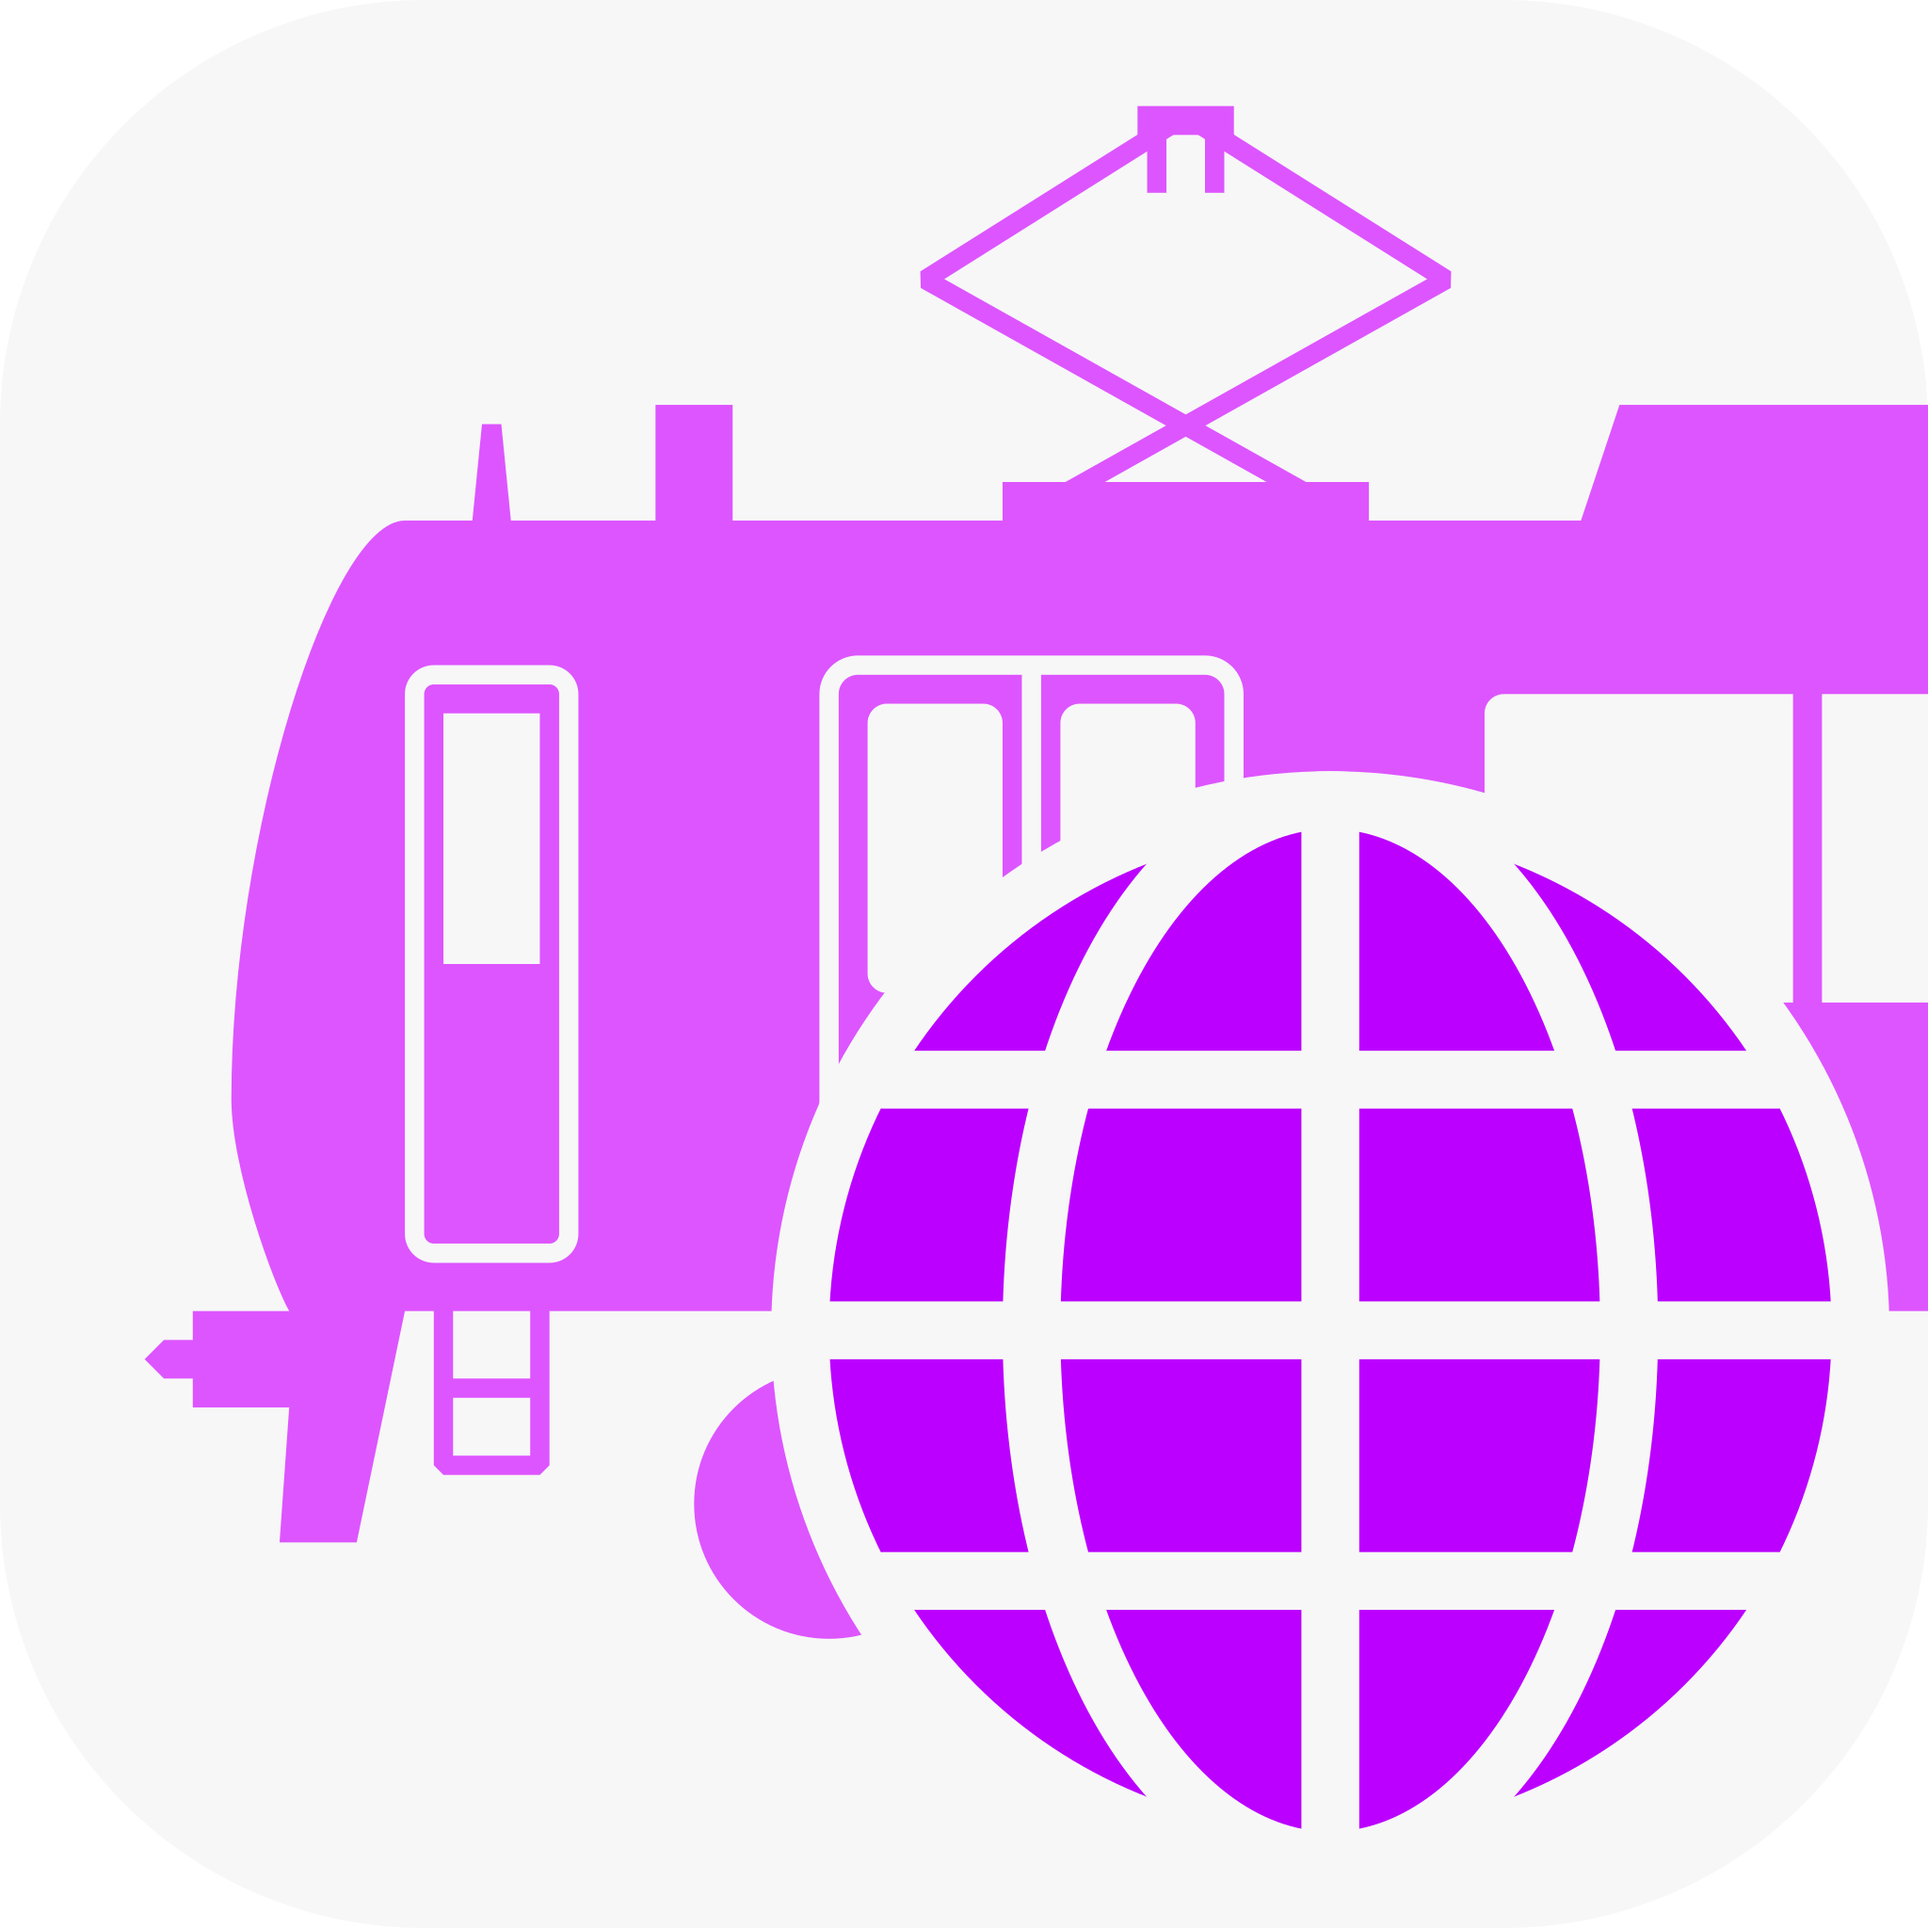
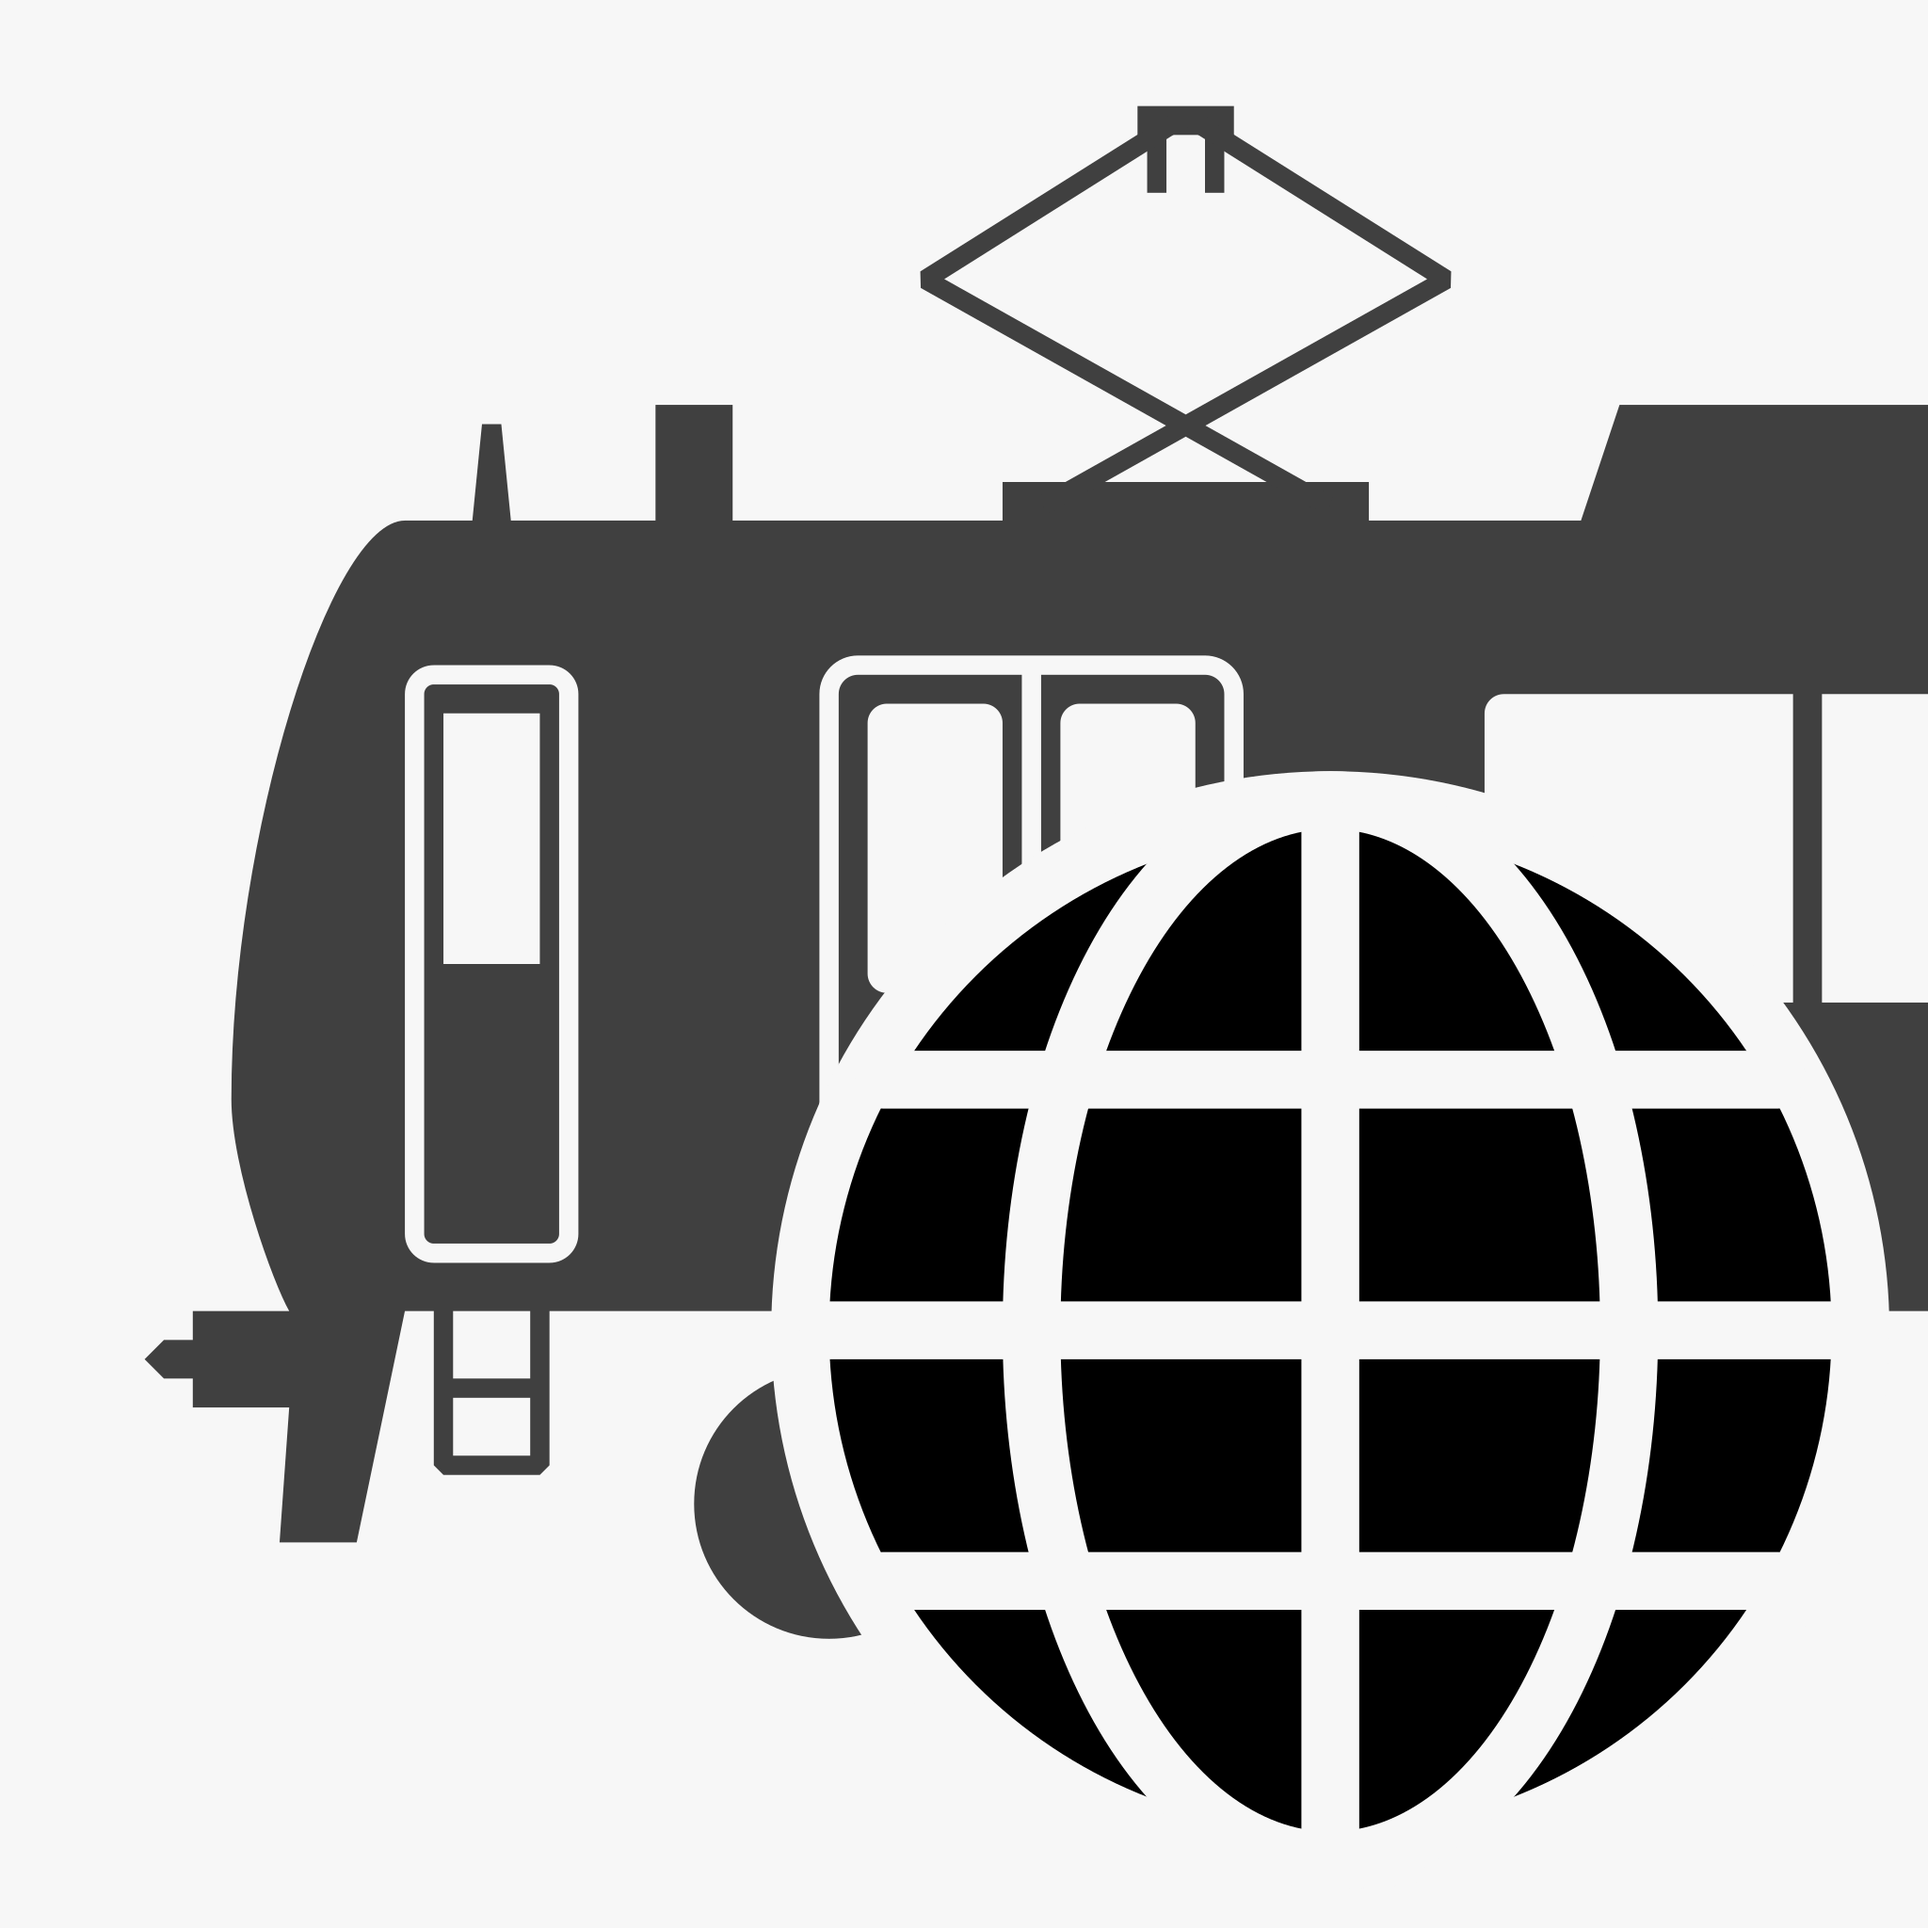
v23.10-β6 アイコンデザインの変更、走行位置表示機能で回送列車を半透明で表示するように
FossilOrigin-Name: aad79337b4903a04c8953f4b4c81e823acac2d7dec68f82cac0b079b4a86b6af

diff --git a/unyohub/index.html b/unyohub/index.html
@@ -5,7 +5,7 @@
     <meta name="viewport" content="width=device-width,initial-scale=1,interactive-widget=resizes-content">
 <script>
     const UNYOHUB_APP_NAME = "運用観察Hub";
-    const UNYOHUB_VERSION = "23.10-β5"
+    const UNYOHUB_VERSION = "23.10-β6"
     const UNYOHUB_INDEXEDDB_VERSION = 2310001;
     const UNYOHUB_LICENSE_TEXT = "このアプリケーションは無権利創作宣言に準拠して著作権放棄されています。";
     const UNYOHUB_LICENSE_URL = "https://www.2pd.jp/license/";
@@ -2426,6 +2426,8 @@ function switch_railroad (railroad_info_next, load_icon = true) {
     
     railroad_info = railroad_info_next;
     
+    railroad_info["deadhead_train_number_regexp"] = new RegExp(railroad_info["deadhead_train_number"]);
+    
     var select_elm = document.getElementById("railroad_select");
     if (select_elm.value !== railroad_info["railroad_id"]) {
         select_elm.value = railroad_info["railroad_id"];
@@ -3066,12 +3068,26 @@ function draw_train_position (hh_and_mm) {
     for (var cnt = 0; cnt < line_inbound.length; cnt++) {
         if (line_inbound[cnt].length === 1) {
             var train = convert_train_position_data(line_inbound[cnt][0]);
-            position_inbound_elms[line_inbound.length - cnt].innerHTML = "<span onclick='train_detail(\"" + line_id + "\", \"" + train["train_number"] + "\", \"" + train["first_departure_time"] + "\", \"inbound_trains\");' style='color : " + get_train_color(train["train_title"]) + ";'><img src='" + get_icon(train["first_formation"]) + "' alt='' class='train_icon'>" + train["train_title"] + "<br>" + train["formation_html"] + "</span>";
+            buf = "<span onclick='train_detail(\"" + line_id + "\", \"" + train["train_number"] + "\", \"" + train["first_departure_time"] + "\", \"inbound_trains\");' style='color : " + get_train_color(train["train_title"]) + ";'><img src='" + get_icon(train["first_formation"]) + "' alt='' class='train_icon'";
+            
+            if (railroad_info["deadhead_train_number_regexp"].test(train["train_number"])) {
+                buf += " style='opacity: 0.5;'"
+            }
+            
+            buf += ">" + train["train_title"] + "<br>" + train["formation_html"] + "</span>";
+            
+            position_inbound_elms[line_inbound.length - cnt].innerHTML = buf;
         } else if (line_inbound[cnt].length >= 2) {
             buf = "<span class='multiple_trains'>";
             for (var cnt_2 = 0; cnt_2 < line_inbound[cnt].length; cnt_2++) {
                 var train = convert_train_position_data(line_inbound[cnt][cnt_2]);
-                buf += "<img src='" + get_icon(train["first_formation"]) + "' alt='' class='train_icon' onclick='train_detail(\"" + line_id + "\", \"" + train["train_number"] + "\", \"" + train["first_departure_time"] + "\", \"inbound_trains\");'>";
+                buf += "<img src='" + get_icon(train["first_formation"]) + "' alt='' class='train_icon' onclick='train_detail(\"" + line_id + "\", \"" + train["train_number"] + "\", \"" + train["first_departure_time"] + "\", \"inbound_trains\");'";
+                
+                if (railroad_info["deadhead_train_number_regexp"].test(train["train_number"])) {
+                    buf += " style='opacity: 0.5;'"
+                }
+                
+                buf += ">";
             }
             buf += "</span>";
             
@@ -3084,12 +3100,26 @@ function draw_train_position (hh_and_mm) {
     for (cnt = 0; cnt < line_outbound.length; cnt++) {
         if (line_outbound[cnt].length === 1) {
             var train = convert_train_position_data(line_outbound[cnt][0]);
-            position_outbound_elms[cnt].innerHTML = "<span onclick='train_detail(\"" + line_id + "\", \"" + train["train_number"] + "\", \"" + train["first_departure_time"] + "\", \"outbound_trains\");' style='color : " + get_train_color(train["train_title"]) + ";'><img src='" + get_icon(train["first_formation"]) + "' alt='' class='train_icon'>" + train["train_title"] + "<br>" + train["formation_html"] + "</span>";
+            buf = "<span onclick='train_detail(\"" + line_id + "\", \"" + train["train_number"] + "\", \"" + train["first_departure_time"] + "\", \"outbound_trains\");' style='color : " + get_train_color(train["train_title"]) + ";'><img src='" + get_icon(train["first_formation"]) + "' alt='' class='train_icon'";
+            
+            if (railroad_info["deadhead_train_number_regexp"].test(train["train_number"])) {
+                buf += " style='opacity: 0.5;'"
+            }
+            
+            buf += ">" + train["train_title"] + "<br>" + train["formation_html"] + "</span>";
+            
+            position_outbound_elms[cnt].innerHTML = buf;
         } else if (line_outbound[cnt].length >= 2) {
             buf = "<span class='multiple_trains'>";
             for (var cnt_2 = 0; cnt_2 < line_outbound[cnt].length; cnt_2++) {
-            var train = convert_train_position_data(line_outbound[cnt][cnt_2]);
-                buf += "<img src='" + get_icon(train["first_formation"]) + "' alt='' class='train_icon' onclick='train_detail(\"" + line_id + "\", \"" + train["train_number"] + "\", \"" + train["first_departure_time"] + "\", \"outbound_trains\");'>";
+                var train = convert_train_position_data(line_outbound[cnt][cnt_2]);
+                buf += "<img src='" + get_icon(train["first_formation"]) + "' alt='' class='train_icon' onclick='train_detail(\"" + line_id + "\", \"" + train["train_number"] + "\", \"" + train["first_departure_time"] + "\", \"outbound_trains\");'";
+                
+                if (railroad_info["deadhead_train_number_regexp"].test(train["train_number"])) {
+                    buf += " style='opacity: 0.5;'"
+                }
+                
+                buf += ">";
             }
             buf += "</span>";
             
@@ -3215,38 +3245,38 @@ function convert_formation_data (line_id, operation_list, is_inbound) {
     if (operation_list !== null) {
         var formation_text = "";
         
-        for (var cnt_3 = 0; cnt_3 < operation_list.length; cnt_3++) {
-            if (operation_list[cnt_3] in operation_data["operations"]) {
+        for (var cnt = 0; cnt < operation_list.length; cnt++) {
+            if (operation_list[cnt] in operation_data["operations"]) {
                 if (railroad_info["lines"][line_id]["inbound_forward_direction"] === is_inbound) {
-                    if (cnt_3 === 0) {
-                        first_formation = operation_data["operations"][operation_list[cnt_3]]["formations"].split("+")[0];
+                    if (cnt === 0) {
+                        first_formation = operation_data["operations"][operation_list[cnt]]["formations"].split("+")[0];
                     } else {
                         formation_text += "+";
                     }
                     
-                    formation_text += operation_data["operations"][operation_list[cnt_3]]["formations"];
+                    formation_text += operation_data["operations"][operation_list[cnt]]["formations"];
                 } else {
-                    if (cnt_3 === 0) {
-                        var formation_data = operation_data["operations"][operation_list[cnt_3]]["formations"].split("+");
+                    if (cnt === 0) {
+                        var formation_data = operation_data["operations"][operation_list[cnt]]["formations"].split("+");
                         
                         first_formation = formation_data[formation_data.length - 1];
                     } else {
                         formation_text = "+" + formation_text;
                     }
                     
-                    formation_text = operation_data["operations"][operation_list[cnt_3]]["formations"] + formation_text;
+                    formation_text = operation_data["operations"][operation_list[cnt]]["formations"] + formation_text;
                 }
                 
-                variants_count = Math.max(operation_data["operations"][operation_list[cnt_3]]["variants_count"], Number(variants_count));
+                variants_count = Math.max(operation_data["operations"][operation_list[cnt]]["variants_count"], Number(variants_count));
             } else {
                 if (railroad_info["lines"][line_id]["inbound_forward_direction"] === is_inbound) {
-                    if (cnt_3 === 0) {
+                    if (cnt === 0) {
                         formation_text += "?";
                     } else {
                         formation_text += "+?";
                     }
                 } else {
-                    if (cnt_3 === 0) {
+                    if (cnt === 0) {
                         formation_text = "?" + formation_text;
                     } else {
                         formation_text = "?+" + formation_text;
@@ -3495,6 +3525,13 @@ function train_detail (line_id, train_number, first_departure_time, train_direct
                 }
             }
         }
+    } else {
+        buf += "<h4>" + escape_html(railroad_info["lines"][line_id]["line_name"]) + "　"
+        if (railroad_info["deadhead_train_number_regexp"].test(train_number)) {
+            buf += "回送　";
+        }
+        buf += escape_html(train_number) + "</h4>";
+        buf += "詳細情報はありません";
     }
     
     if (train_operations !== null && timetable_operation_table === get_days_operation(Date.now() / 1000)) {

diff --git a/unyohub/service_worker.js b/unyohub/service_worker.js
@@ -1,4 +1,4 @@
-var unyo_version = "23.10-β5"; /*運用観察Hub本体のバージョン番号*/
+var unyo_version = "23.10-β6"; /*運用観察Hub本体のバージョン番号*/
 
 var cache_name = "unyohub_" + unyo_version;
 var files_to_cache = [

diff --git a/setup_scripts/convert_operation_table.py b/setup_scripts/convert_operation_table.py
@@ -6,7 +6,7 @@ import json
 import sqlite3
 
 
-def get_lines_and_station(station_initial):
+def get_lines_and_station(station_initial, cnt, cnt_2):
     global railroad_info
     
     line_list = []
@@ -18,7 +18,7 @@ def get_lines_and_station(station_initial):
                 station_name = station["station_name"]
     
     if len(line_list) == 0:
-        print("「" + station_initial + "」に一致する駅がありません")
+        print("「" + station_initial + "」に一致する駅がありません: " + str(cnt + 1) + "行目 " + str(cnt_2 + 1) + "列目")
     
     return line_list, station_name
 
@@ -101,8 +101,8 @@ while cnt < len(operations):
                     train_number = train_number[1:] + "__" + str(id_cnt)
                     id_cnt += 1
                 
-                starting_line_list, starting_station = get_lines_and_station(operations[cnt + 1][cnt_2][0:1])
-                terminal_line_list, terminal_station = get_lines_and_station(operations[cnt + 2][cnt_2][0:1])
+                starting_line_list, starting_station = get_lines_and_station(operations[cnt + 1][cnt_2][0:1], cnt, cnt_2)
+                terminal_line_list, terminal_station = get_lines_and_station(operations[cnt + 2][cnt_2][0:1], cnt, cnt_2)
                 
                 line_list = list(set(starting_line_list) & set(terminal_line_list))
                 
@@ -110,7 +110,7 @@ while cnt < len(operations):
                 final_arrival_time = operations[cnt + 2][cnt_2][1:]
                 
                 if len(line_list) == 0:
-                    print("エラー: " + train_number + " の走行範囲が複数の路線に跨っています")
+                    print("エラー: " + train_number + " の走行範囲が複数の路線に跨っています: " + str(cnt + 1) + "行目 " + str(cnt_2 + 1) + "列目")
                     error_occurred = True
                     
                     line_list = starting_line_list
